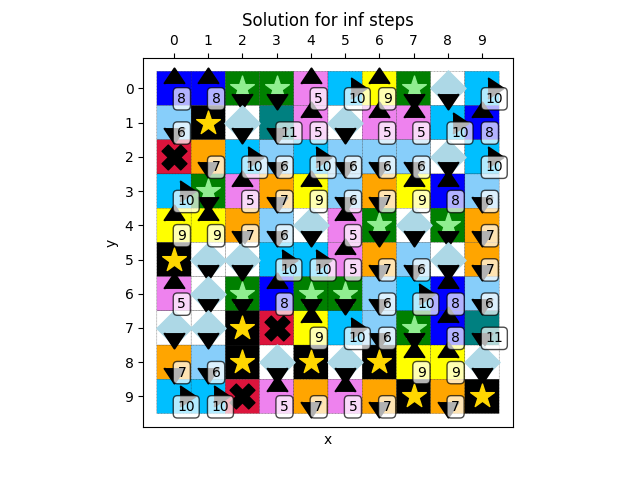
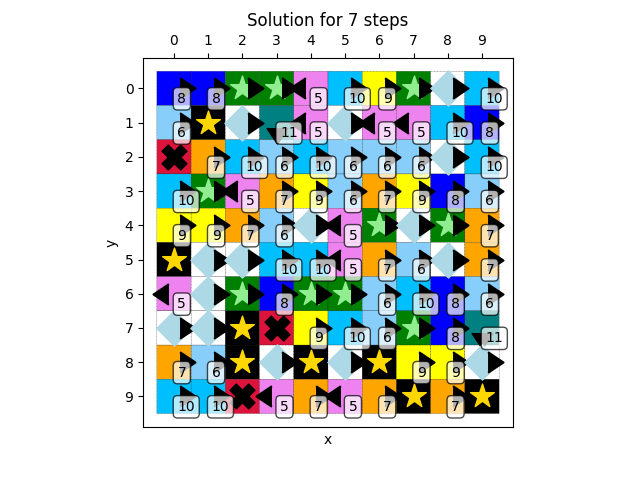
Add broken exponential

diff --git a/robots/robot.py b/robots/robot.py
@@ -415,6 +415,7 @@ class GridEncoding:
         :return:
         """
         # default constraints
+        print("self._grid._grid[0][5]", self._grid._grid[0][5]) 
         print("Generating constraints...")
 
         # floortypes dirs between >= 0 and <= 4
@@ -485,7 +486,7 @@ class GridEncoding:
         
         self._s.push()
         self._s.add(self._max_step_count == 1)
-        for mx_stp in range(81):
+        for mx_stp in range(self._grid.lower_bound, 81):
             print("trying max step:", mx_stp)
             self._s.pop()
             self._s.push()
